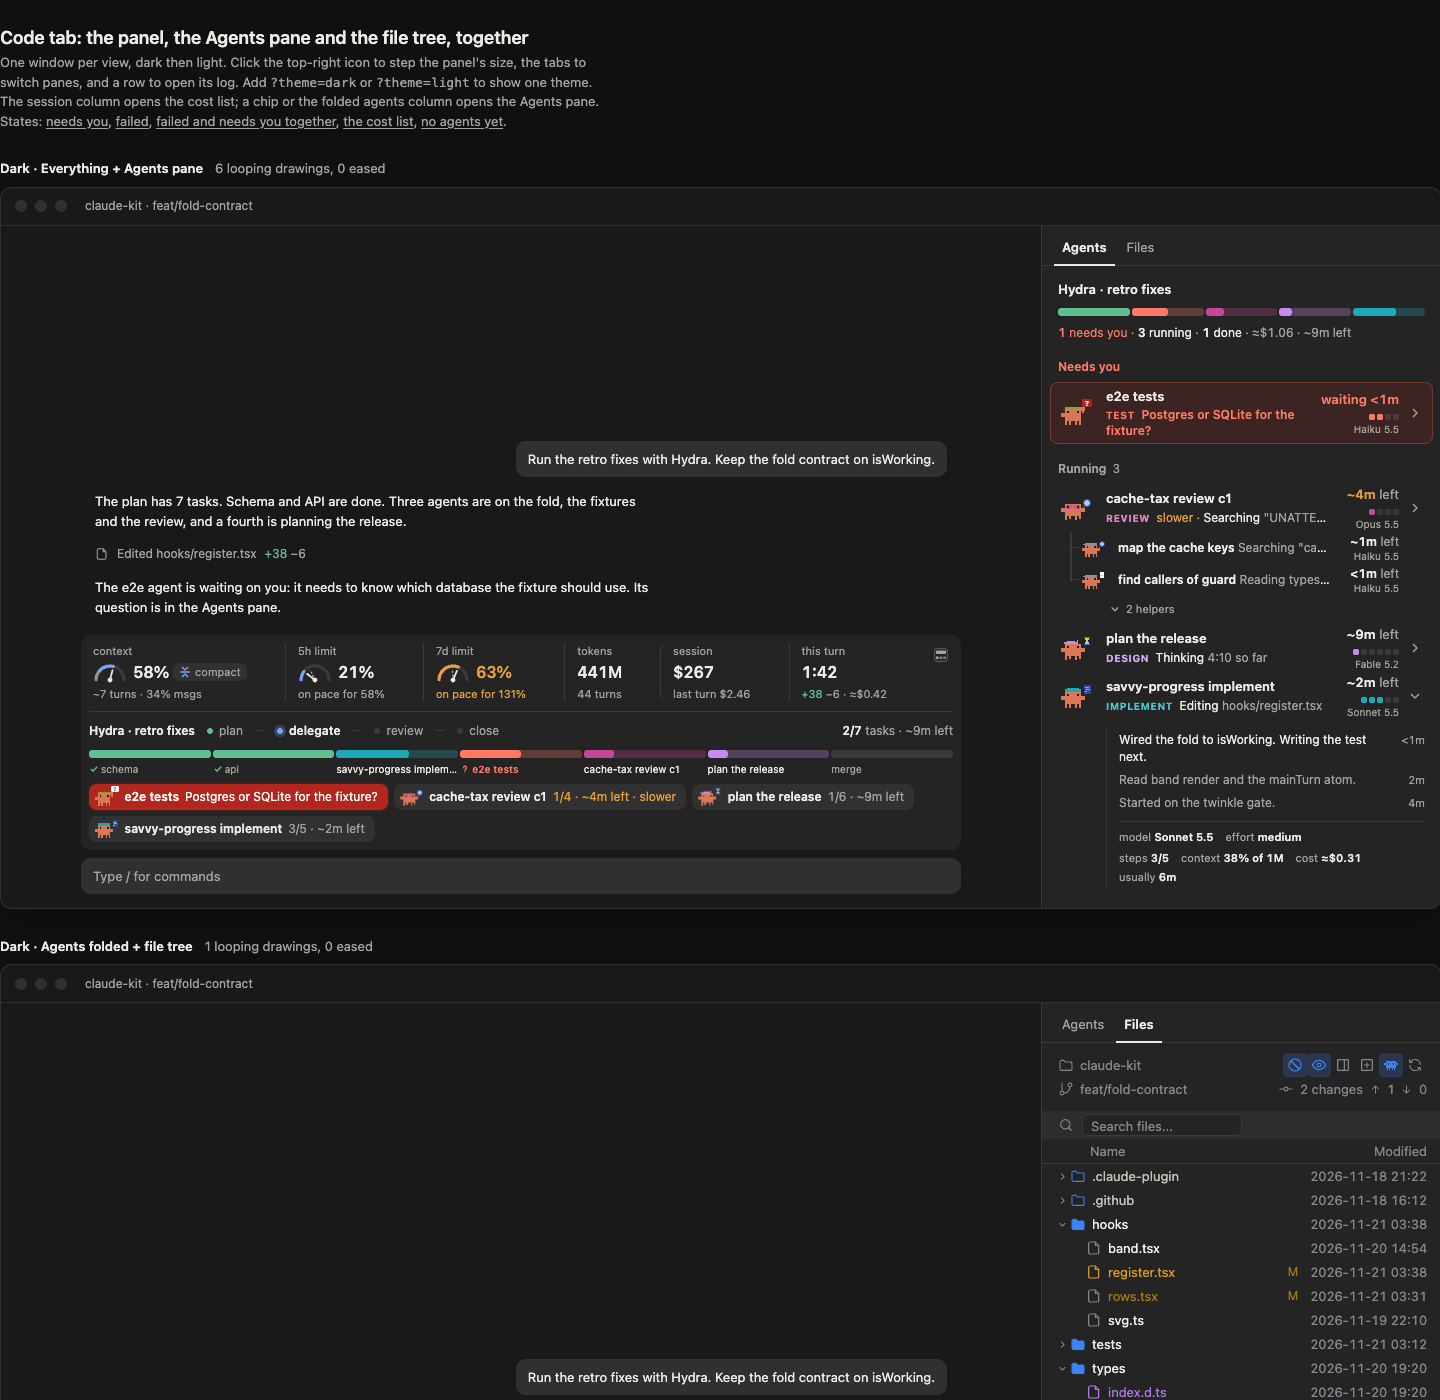
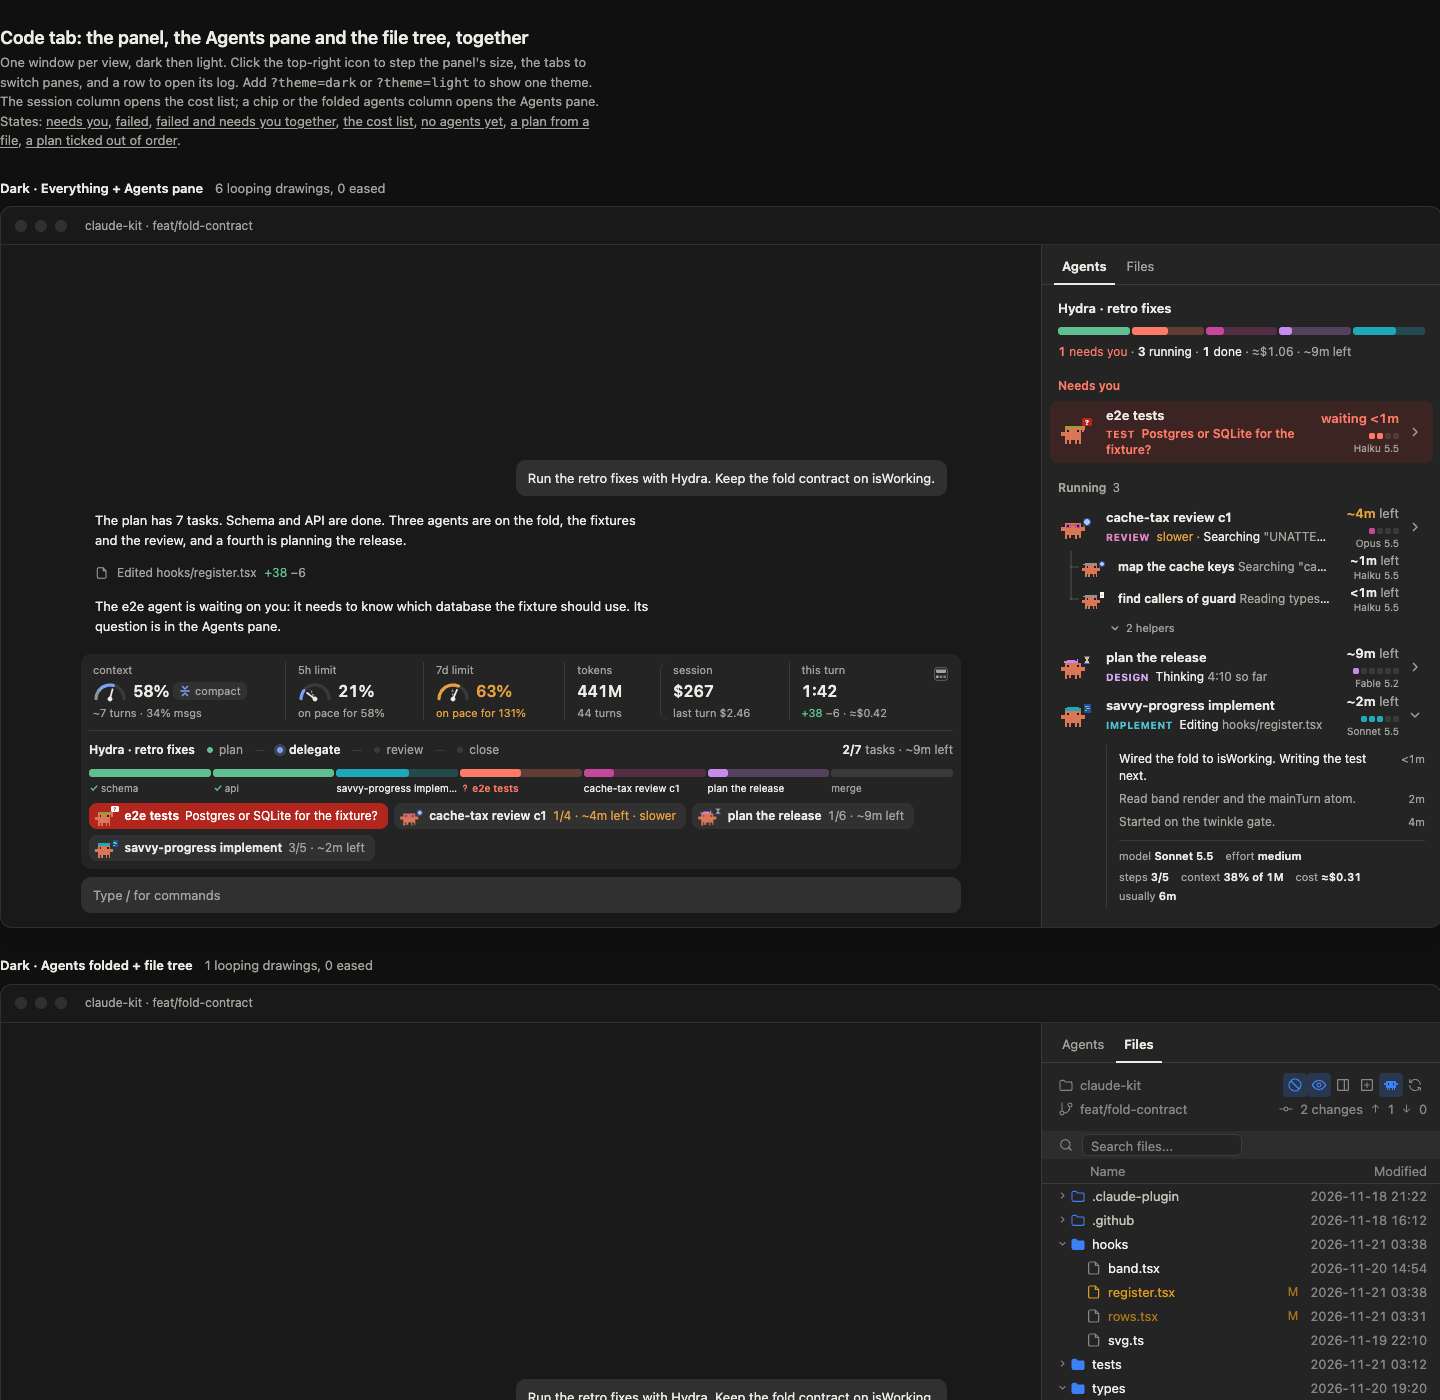
docs: LOCKED records the plan tick rulings; mockups add the plan states

diff --git a/design/mockups-all.html b/design/mockups-all.html
@@ -222,7 +222,7 @@ body{margin:0;background:var(--page);color:var(--ink);font:14px/1.5 -apple-syste
 <body>
 <div class="doc">
 <h1>Code tab: the panel, the Agents pane and the file tree, together</h1>
-<p>One window per view, dark then light. Click the top-right icon to step the panel's size, the tabs to switch panes, and a row to open its log. Add <code>?theme=dark</code> or <code>?theme=light</code> to show one theme. The session column opens the cost list; a chip or the folded agents column opens the Agents pane. States: <a href="?">needs you</a>, <a href="?state=failed">failed</a>, <a href="?state=both">failed and needs you together</a>, <a href="?state=costs">the cost list</a>, <a href="?state=empty">no agents yet</a>.</p>
+<p>One window per view, dark then light. Click the top-right icon to step the panel's size, the tabs to switch panes, and a row to open its log. Add <code>?theme=dark</code> or <code>?theme=light</code> to show one theme. The session column opens the cost list; a chip or the folded agents column opens the Agents pane. States: <a href="?">needs you</a>, <a href="?state=failed">failed</a>, <a href="?state=both">failed and needs you together</a>, <a href="?state=costs">the cost list</a>, <a href="?state=empty">no agents yet</a>, <a href="?state=fileplan">a plan from a file</a>, <a href="?state=outoforder">a plan ticked out of order</a>.</p>
 </div>
 <div id="root"></div>
 <script>
@@ -289,7 +289,8 @@ const hard=a=>a.tries>=3&&a.prop!=='fail'; /* struggling: live, may recover */
    BUILD: the newest running agents walk, then their helpers (loops.ts, pickLoops). */
 {let cap=A.some(a=>a.prop==='wait'||a.prop==='fail')?2:3; /* ALIGN F8: the armed failed pulse takes the same one slot as the needs-you beat (they share it when both are up) */const live=a=>a.prop!=='wait'&&a.prop!=='fail';[...A,...A.flatMap(a=>a.kids||[])].forEach(a=>{a.walk=live(a)&&cap-->0?1:0})}
 /* BUILD: the plan's task titles are the run descriptions they match, as savvy-progress's contract asks. DONE: BUILD Plan count, the session's accepted count */
-const TASKS=['schema','api','savvy-progress implement','e2e tests','cache-tax review c1','plan the release','merge'],PH=['plan','delegate','review','close'],DONE=2;
+let TASKS=['schema','api','savvy-progress implement','e2e tests','cache-tax review c1','plan the release','merge'],PH=['plan','delegate','review','close'],DONE=2;
+/* BUILD Plan ticks by title (2026-11-22) */ const PLAN=STATE==='fileplan'?{title:'Site rebuild',tasks:['schema','api','docs page','auth flow','login page','settings page','search index','export csv','import csv','error pages','release notes','changelog'],done:5,titles:['schema','api','docs page','login page','settings page']}:STATE==='outoforder'?{title:'Site rebuild',tasks:['schema','api','docs page','release notes'],done:1,titles:['api']}:null; if(PLAN){TASKS=PLAN.tasks;DONE=PLAN.done;ENDED.length=0;if(STATE==='fileplan')A.length=0;else A.splice(0,A.length,{...AG('imp'),t:'schema',task:1,kids:[]})}
 const ST={busy:1,hydra:!EMPTY,ctx:58,msgs:34,h5:21,p5:36,d7:63,p7:48,turns:44,tests:1}; /* the panel's "Hydra, needs you" state; p5/p7: the on-pace points */
 /* BUILD Session cost board: the last 20 of 44 turns, newest last (the costs fixture) */
 const TURNS=[...Array.from({length:17},(_,i)=>+(0.2+i*0.03).toFixed(2)),0.85,1.1,2.46];
@@ -303,7 +304,8 @@ const LEFT=`~${Math.max(1,...A.filter(a=>!alertOf(a)).map(a=>a.eta||1))}m left`,
 /* ALIGN K3: green as TEXT uses okt (light #2e8c61 was 3.96:1; #237550 is 5.4:1). Fills keep ok. */
 const stateCol=(a,c)=>alertOf(a)?c.er:c.R[a.role];
 function face(L){const w=L.find(a=>a.prop==='wait');if(w)return{a:w,txt:`${w.t} needs you`,alert:1};const f=L.find(a=>a.prop==='fail');if(f)return{a:f,txt:`${f.t} failed`,alert:1};const h=L.find(hard);if(h)return{a:h,txt:`${h.t} · ${h.tries} failed tries`,warn:1}; /* ALIGN F9: a struggling agent outranks "finishing next", in amber words, with its own walking costume */const nx=[...L].sort((x,y)=>x.eta-y.eta)[0];return{a:nx,txt:`${L.length>1?'next: ':''}${nx.t} · ${etaTxt(nx)} left`}} /* BUILD One agent reads its name: "next:" only for two or more */
-function taskState(i,L){if(i<DONE)return{k:'d'};const a=L.find(x=>x.task===i+1);if(!a)return{k:''};return{k:a.prop==='fail'?'x':alertOf(a)?'n':'r',a}}
+const tick=L=>{const t=TASKS.map(()=>0);let left=DONE;const go=ok=>TASKS.forEach((_,i)=>{if(left>0&&!t[i]&&ok(i)){t[i]=1;left--}});go(i=>(PLAN?.titles||[]).includes(TASKS[i]));go(i=>!L.some(a=>a.task===i+1));go(()=>1);return t};
+function taskState(i,L){if(tick(L)[i])return{k:'d'};const a=L.find(x=>x.task===i+1);if(!a)return{k:''};return{k:a.prop==='fail'?'x':alertOf(a)?'n':'r',a}}
 const seg=(t,c)=>t.k==='d'?'<span class="d"></span>':t.a&&t.a.prop==='fail'?'<span class="x"></span>':t.a?`<span class="r" style="--c:${stateCol(t.a,c)};--f:${Math.max(8,Math.round(t.a.n/t.a.N*100))}%"><i></i></span>`:'<span></span>';
 const mini=(c,L,wd)=>`<span class="mb" style="width:${wd}px" role="img" aria-label="plan, ${DONE} of ${TASKS.length} tasks done">${TASKS.map((_,i)=>{const t=taskState(i,L);return `<span style="${t.k==='d'?`background:${c.ok}`:t.a?`background:${stateCol(t.a,c)}`:''}"></span>`}).join('')}</span>`;
 /* ALIGN F4: one drawing of the agents crab for the folded column, the one-line size and the specimen. armed = the failed pulse timer is live. */
@@ -327,7 +329,7 @@ function columns(c,s,L,mode){const C=[],alarm=s.ctx>=90,ctc=tier(c,s.ctx);
  C.push({k:'session',pr:93,act:'costs',aria:'Session cost: open the cost list',lab:'session',val:'<b>$267</b>',so:s.turns?'last turn $2.46':'no turns yet'});
  if(s.turns>=3){C.push({k:'tokens',pr:94,lab:'tokens',val:'<b>441M</b>',so:`${s.turns} turns`});C.push({k:'agent',pr:40,lab:'agent time',val:'<b>10h 50m</b>',so:'avg 14m per turn'})} /* ALIGN I2: the "⌀" glyph -> the word */
  if(s.tests)C.push({k:'tests',pr:45,lab:'tests',val:`<b style="color:${c.okt}">179</b><small>passed</small>`,so:'3m ago'});
- if(mode!=='full'&&s.hydra)C.push({k:'plan',pr:97,lab:`plan · ${PH[1]}`,d:mini(c,L,58),val:`<b>${DONE}/${TASKS.length}</b>`,so:`Hydra · retro fixes · ${LEFT}`});
+ if(mode!=='full'&&s.hydra)C.push({k:'plan',pr:97,lab:`plan · ${PH[1]}`,d:mini(c,L,58),val:`<b>${DONE}/${TASKS.length}</b>`,so:`${PLAN?PLAN.title:'Hydra · retro fixes'}${A.length?` · ${LEFT}`:''}`});
  /* ALIGN W3: "N running" counted the waiting agent as running; the pane does not. The folded column now reads "N agents". Crab .9 -> M.
     BUILD One folded agent: its name in the value slot and only its state under it. BUILD Alert line keeps its words: the name is cut, never " needs you". */
  if(mode!=='full'&&L.length){const F=face(L),one=L.length===1&&F.a===L[0],st=F.alert?(F.a.prop==='wait'?'needs you':'failed'):F.warn?`${F.a.tries} failed tries`:`${etaTxt(F.a)} left`;
@@ -341,7 +343,7 @@ function panel(c,mode,W){const s=ST,L=A;
  /* BUILD Column widths follow need: auto tracks, each its content's width, the rest shared */
  const grid=`<div class="grid" style="grid-template-columns:repeat(${keep.length},auto)">${keep.map(x=>`<div class="cell${x.act?' press':''}"${x.act?` role="button" tabindex="0" aria-label="${x.aria}" data-act="${x.act}"`:''}><div class="lab">${x.lab}</div><div class="val">${x.d||''}${x.val}</div><div class="so el">${x.so}</div></div>`).join('')}</div>`;
  const bad=L.filter(a=>a.task&&a.prop==='fail').length,live=L.filter(a=>a.task).length-bad;
- const plan=s.hydra?`<div class="hr"></div><div class="plan${W<620?' narrow':''}"><b class="el" style="min-width:0">${W<520?'Hydra':'Hydra · retro fixes'}</b>${PH.map((p,i)=>`${i?'<span class="sep"></span>':''}<span class="ph ${i<1?'done':i===1?'now':'next'}" title="${p}"><i></i><span>${p}</span></span>`).join('')}<span class="grow"></span><span class="tn"><b>${DONE}/${TASKS.length}</b><span class="m"> tasks · ${LEFT}</span></span></div><div class="tbar" role="img" aria-label="tasks: ${DONE} done, ${bad?`${bad} failed, `:''}${live} in progress, ${TASKS.length-DONE-live-bad} not started">${TASKS.map((_,i)=>seg(taskState(i,L),c)).join('')}</div><div class="tnames">${TASKS.map((n,i)=>{const t=taskState(i,L);return `<span class="${t.k}">${t.k==='d'?`<span class="ck">${ICON.check}</span>`:t.k==='x'?`<span class="ck">${ICON.cross}</span>`:t.k==='n'?`<span class="ck">${ICON.ask}</span>`:''}${n}${t.k==='x'?' failed':''}</span>`}).join('')}</div>`:'';
+ const plan=s.hydra?`<div class="hr"></div><div class="plan${W<620?' narrow':''}"><b class="el" style="min-width:0">${W<520?'Hydra':PLAN?PLAN.title:'Hydra · retro fixes'}</b>${PH.map((p,i)=>`${i?'<span class="sep"></span>':''}<span class="ph ${i<1?'done':i===1?'now':'next'}" title="${p}"><i></i><span>${p}</span></span>`).join('')}<span class="grow"></span><span class="tn"><b>${DONE}/${TASKS.length}</b><span class="m"> tasks${A.length?` · ${LEFT}`:''}</span>${!L.some(a=>a.task)&&TASKS.length>8?`<span class="m"> · next: ${TASKS[tick(L).indexOf(0)]}</span>`:''}</span></div><div class="tbar" role="img" aria-label="tasks: ${DONE} done, ${bad?`${bad} failed, `:''}${live} in progress, ${TASKS.length-DONE-live-bad} not started">${TASKS.map((_,i)=>seg(taskState(i,L),c)).join('')}</div>${TASKS.length>8?'':`<div class="tnames">${TASKS.map((n,i)=>{const t=taskState(i,L);return `<span class="${t.k}">${t.k==='d'?`<span class="ck">${ICON.check}</span>`:t.k==='x'?`<span class="ck">${ICON.cross}</span>`:t.k==='n'?`<span class="ck">${ICON.ask}</span>`:''}${n}${t.k==='x'?' failed':''}</span>`}).join('')}</div>`}`:'';
  const chips=!L.length?'':`${s.hydra?'<div style="height:8px"></div>':'<div class="hr"></div>'}<div class="chips">${[...L].sort((x,y)=>rank(x)-rank(y)).map(a=>chip(a,c,1)).join('')}</div>`;
  const F=L.length&&face(L),hot=all.filter(x=>(x.k==='5h'||x.k==='7d')&&x.hot);
  const line=`<div class="line"><span class="g">${dial(c,s.ctx,tier(c,s.ctx),{base:s.ctx-s.msgs,small:1,label:'context'})}<b class="tn">${s.ctx}%</b><span class="m">context</span></span>${hot.map(x=>`<span class="g">${dial(c,x.pct,x.col,{ghost:x.gh,small:1,label:x.k})}<b class="tn" style="${x.col===c.wa?`color:${c.wa}`:''}">${x.pct}%</b><span class="m">${x.k}</span></span>`).join('')}${s.hydra?`<span class="g">${mini(c,L,48)}<b class="tn">${DONE}/${TASKS.length}</b><span class="m">${PH[1]}</span></span>`:`<span class="g press" role="button" tabindex="0" aria-label="Session cost: open the cost list" data-act="costs"><b class="tn">$267</b><span class="m">session</span></span>`}<span class="grow"></span>${L.length?`<span class="g press" role="button" tabindex="0" aria-label="Agents: show them all" data-act="open">${mascot(F,c,S,L.length,1,1)}<span class="tn" style="${faceStyle(F,c)}">${F.txt}</span></span>`:''}</div>`;

diff --git a/docs/decisions/LOCKED.md b/docs/decisions/LOCKED.md
@@ -115,6 +115,8 @@ Taken by the maintainer while the build ran, after seeing each behaviour drawn.
 - **First column inset:** the first column draws 4 units in from the band's left edge, so the context dial does not touch it. Decided 2026-11-21.
 - **Failed end:** an agent whose last step reported failed ends as failed, red with its reason, even when it ended on its own; a later ok step clears it. Decided 2026-11-21.
 - **Plan count:** the plan's done count is the main session's accepted count; runs mark their own tasks running, waiting or failed but never tick them. Decided 2026-11-21.
+- **Plan ticks by title:** tasks named done by savvy tick first; the rest of the session's count ticks in plan order, skipping tasks with a live run. "Plan count" stands. Decided 2026-11-22.
+- **Plan line next: clause:** when no task is live, waiting or failed, and the bar is not naming its tasks, the plan line's right-hand text gains a clause, "12/47 tasks · next: <first not-started task>" (next: is the word the folded agents line already uses), muted, 12 px, same baseline. It follows "So-whats drop whole clauses": next: drops first, a clause is never cut mid-number, and the task name inside it may be cut with "…" but not under 8 characters, else the clause drops. Alt: "<title>, phase <phase>, 12 of 47 tasks, next: <full task name>". Decided 2026-11-22.
 - **Narrow pane:** running rows and helpers share one reading edge: the widest reading in view plus 6, 88 at most, at every width. Where a title would cut under 8 characters there, the edge pulls in to keep 8 of it, down to the widest number-only reading ("~1m", "0:30") or model word ("Sonnet"), and readings that no longer fit read only their number; a title that still will not fit runs over its reading, so a title never drops and grows as the pane widens. Alert rows size their own column: 88 where the title and the first 16 characters of the why fit, else the column's words, else the age alone ("<1m"; a failed row drops "after 2:10") over the model word, never narrower than that word; the alt keeps the words. The why's second line wraps under the role tag, from the title's x. A note that will not fit beside the role tag takes the tag's slot. A run never shows as a lone "…", it drops instead. Decided 2026-11-21, updated 2026-11-21; the model word joined both floors 2026-11-22 (see "Model").
 - **One folded agent:** with one agent, the folded agents column shows its name in the value slot and only its state under it, never "1 agents". Decided 2026-11-21.
 - **Animations switch:** a plugin setting, "animations" (on by default), turns every clawpit loop and transition off, the same way reduced motion does; for runs where the screen stays on with nobody watching. Decided 2026-11-21.
